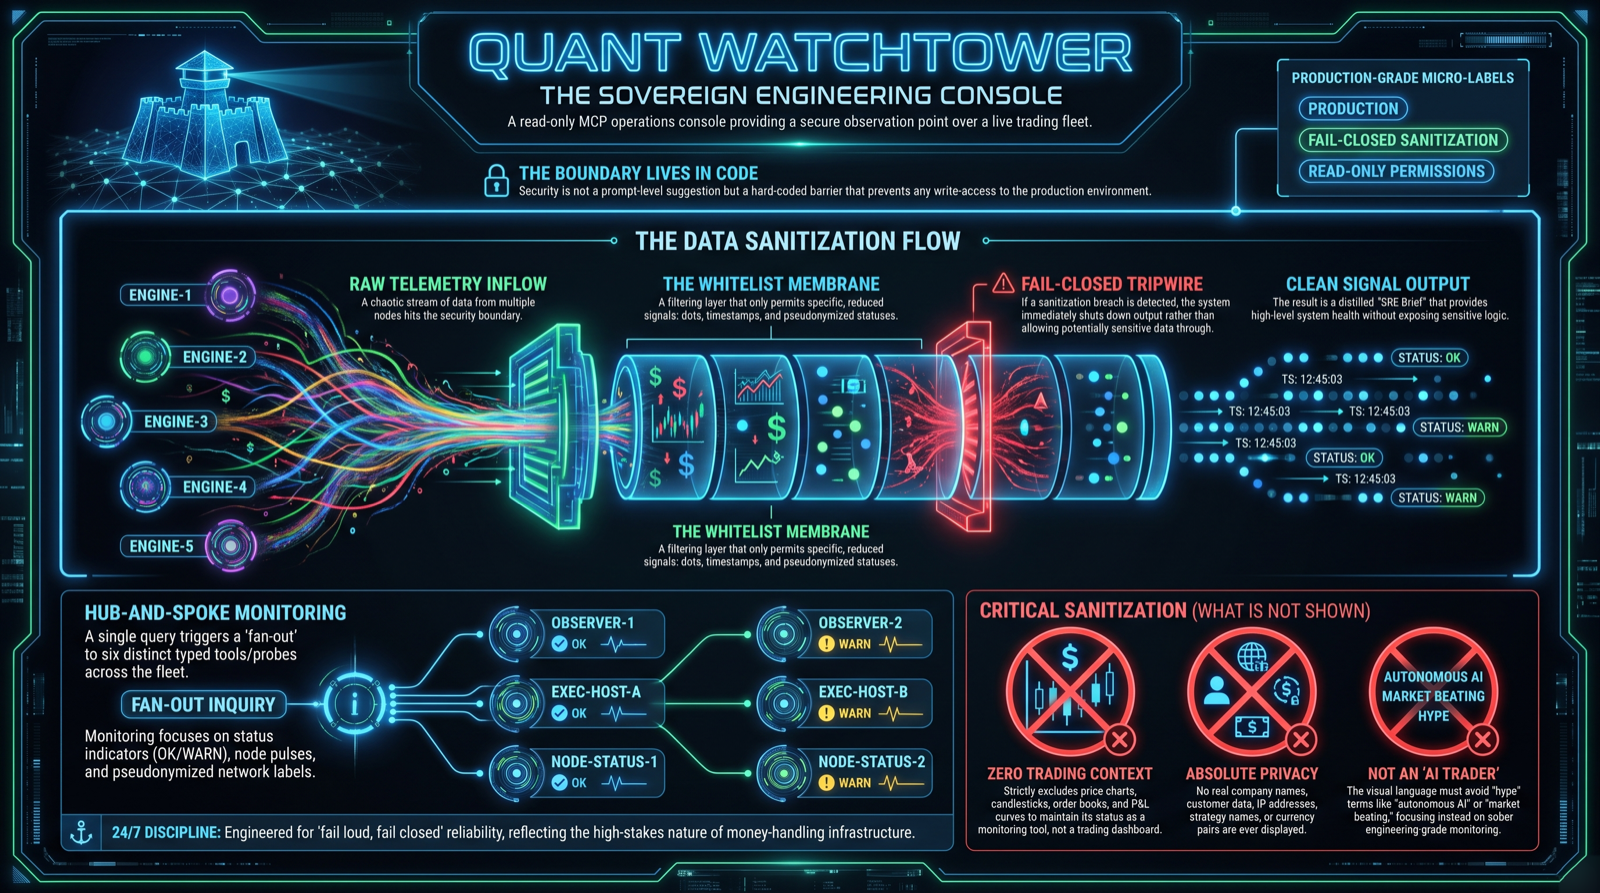
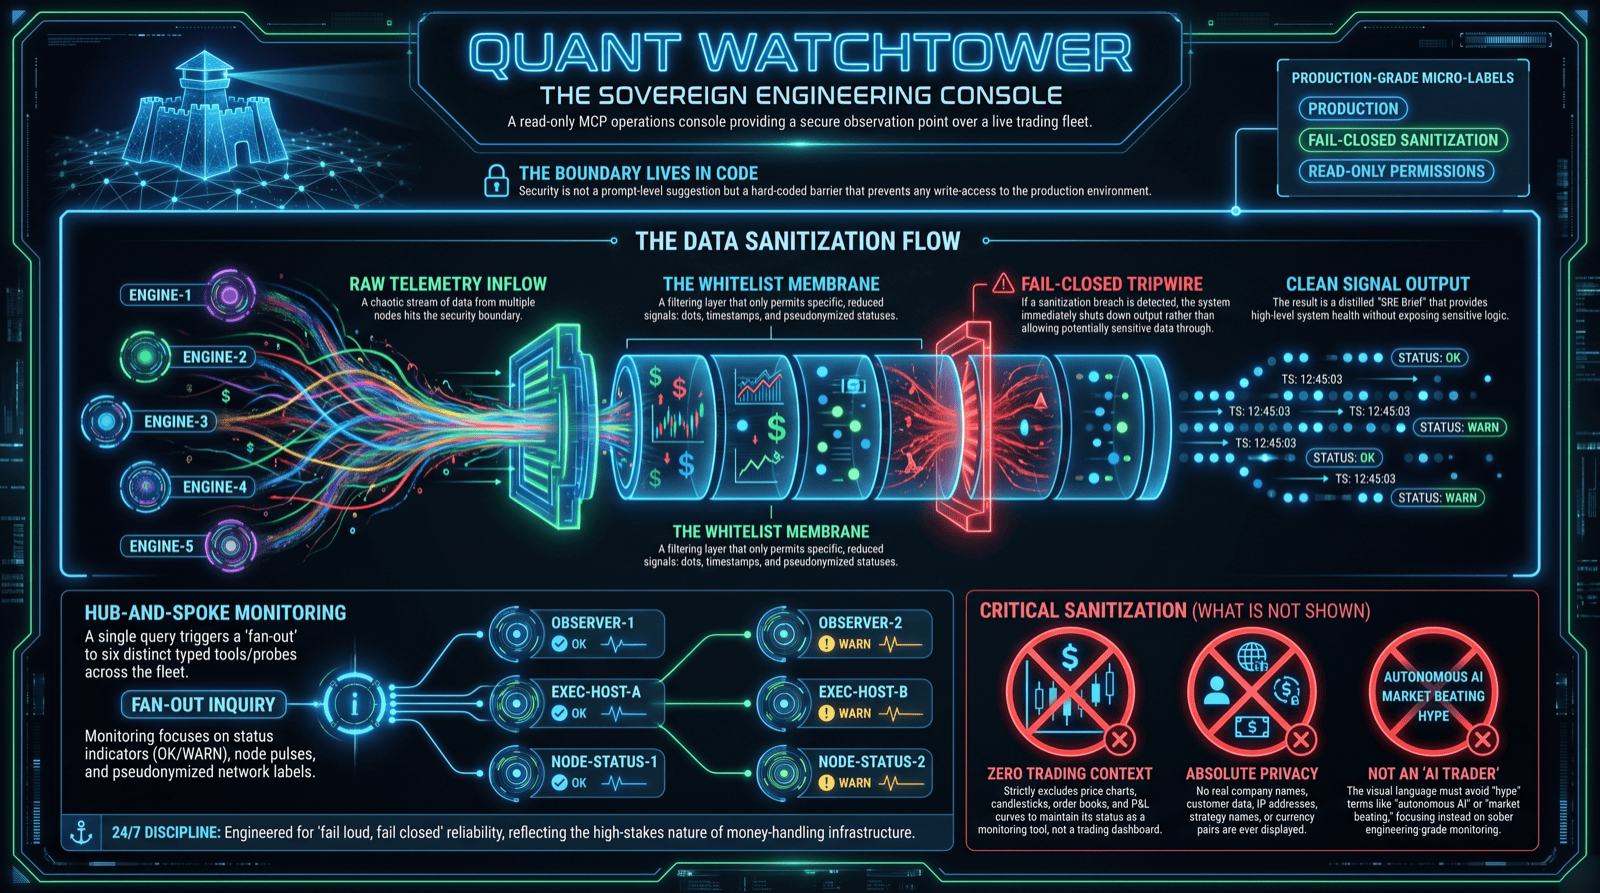
README: terminology pass

Changed region(s): [[0.1875, 0.3931, 0.3438, 0.514], [0.375, 0.4535, 0.4062, 0.4838], [0.1562, 0.4838, 0.1875, 0.514]]

diff --git a/README.md b/README.md
@@ -16,15 +16,15 @@ One plain-language question, six tool calls, one SRE brief; then a structural re
 ![guardrails](https://img.shields.io/badge/guardrails-forbidden--token%20screen-orange)
 ![observability](https://img.shields.io/badge/observability-heartbeats%20%C2%B7%20reconciliation-informational)
 ![safety](https://img.shields.io/badge/live%20trades-never%20touched-lightgrey)
-![tools](https://img.shields.io/badge/MCP%20tools-6%20typed%20read--only-6e40c9) ![screens](https://img.shields.io/badge/leak%20screens-2%20fail--closed-critical) ![isolation](https://img.shields.io/badge/strategy%20isolation-3%20walls%20deep-blueviolet)
+![tools](https://img.shields.io/badge/MCP%20tools-6%20typed%20read--only-6e40c9) ![screens](https://img.shields.io/badge/leak%20screens-2%20fail--closed-critical) ![isolation](https://img.shields.io/badge/strategy%20isolation-3%20independent%20safeguards-blueviolet)
 
 ---
 
 ## What it is
 
-Quant Watchtower is the monitoring surface for a trading system I designed and operate, which runs unattended across multiple venues around the clock. It is a read-only console: it can observe, verify, and report, but it cannot trade, change configuration, or read a single trade. An agent reaches the fleet only through six typed MCP tools, and everything those tools return is drawn from a sanitized snapshot. This public repo runs that same pipeline on synthetic fixtures, so it is fully runnable without touching anything private.
+Quant Watchtower is the monitoring surface for a trading system I designed and operate, which runs unattended around the clock. It is a read-only console: it can observe, verify, and report, but it cannot trade, change configuration, or read a single trade. An agent reaches the fleet only through six typed MCP tools, and everything those tools return is drawn from a sanitized snapshot. This public repo runs that same pipeline on synthetic fixtures, so it is fully runnable without touching anything private.
 
-The interesting part is not that an agent can summarize logs. It is that the boundary between "operational health" and "how the system actually trades" is enforced in the data layer, three walls deep, so the agent is structurally incapable of leaking the strategy even if asked directly.
+The interesting part is not that an agent can summarize logs. It is that the boundary between "operational health" and "how the system actually trades" is enforced in the data layer, behind three independent safeguards, so the agent is structurally incapable of leaking the strategy even if asked directly.
 
 ## What ships here, and what is sanitized
 
@@ -64,7 +64,7 @@ The architecture is a short list of design decisions, each aimed at making a lea
 
 ```mermaid
 flowchart TB
-    subgraph LIVE["Live trading fleet (24/7, multiple venues)"]
+    subgraph LIVE["Live trading fleet (24/7)"]
       H["Execution hosts + independent observer"]
     end
 
